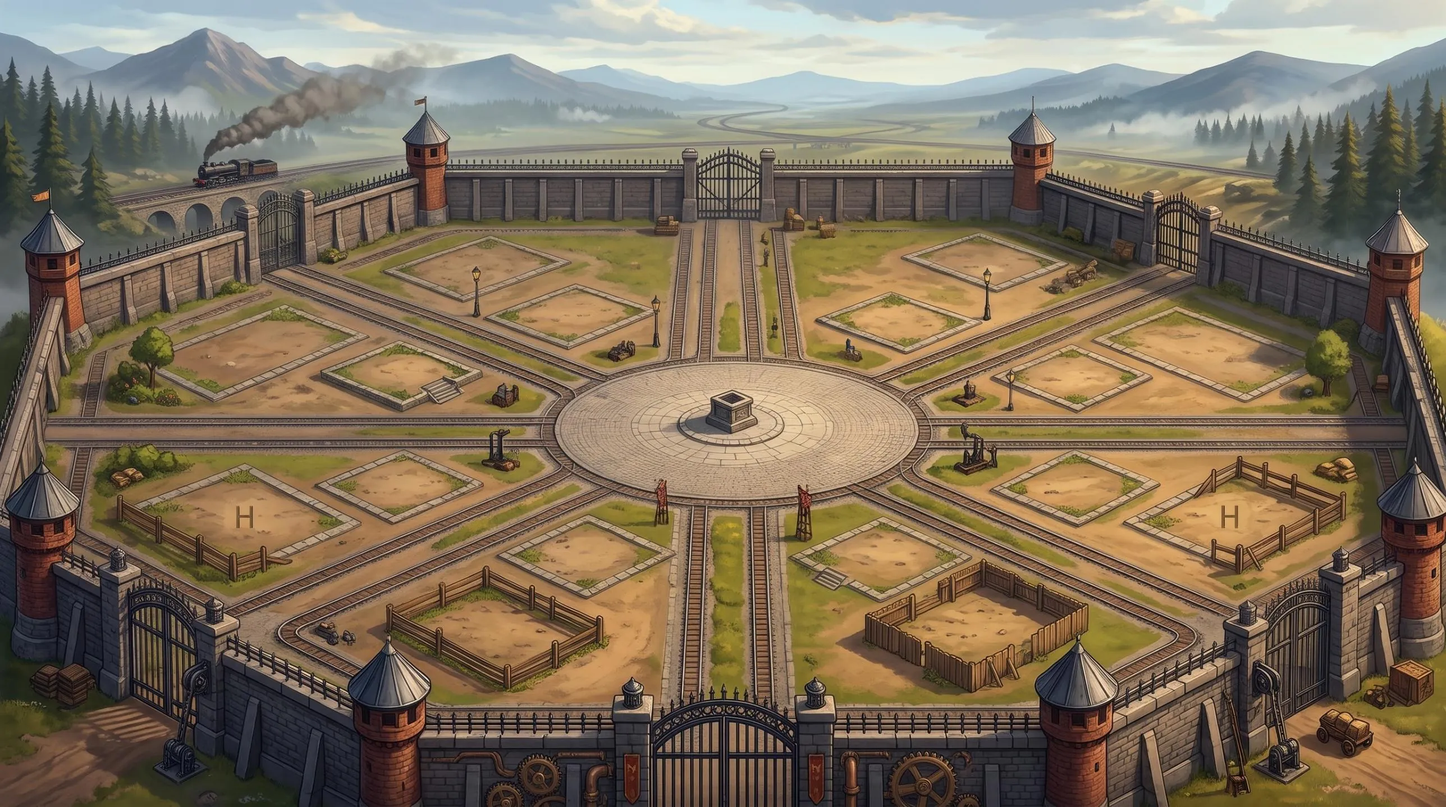
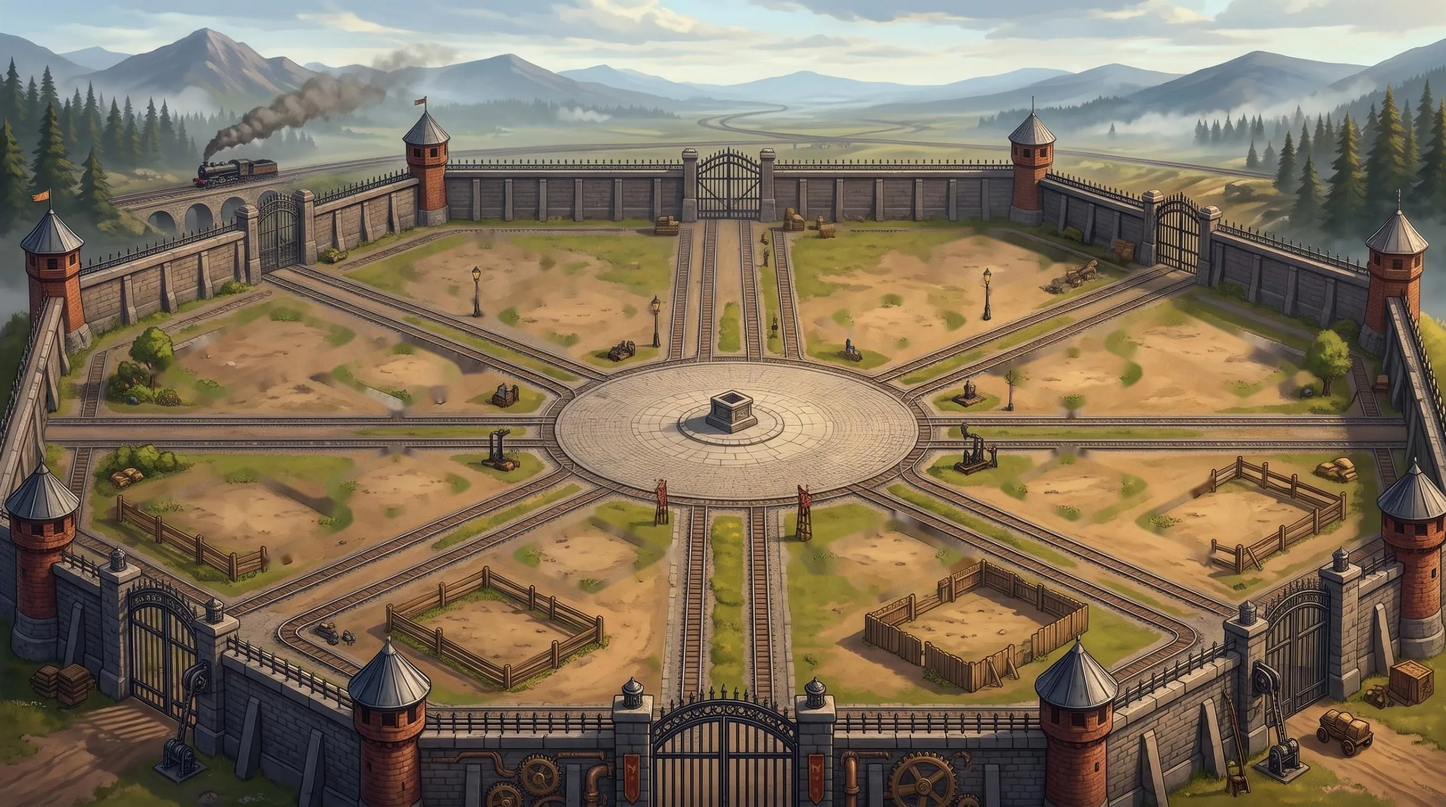
v20 em teste: chão sem as molduras dos lotes
Claude-Session: https://claude.ai/code/session_01PFf72XXzwAS1GMPb39itWp

diff --git a/teste/sw.js b/teste/sw.js
@@ -1,6 +1,6 @@
 const CACHE='reino-20-610ce56f';
 const ARQS=['./','index.html','jogo.610ce56f.js','manifest.webmanifest','icon-192.png','icon-512.png','icon-maskable-512.png','apple-touch-icon.png'];
-const ARTE=['arte/abertura.webp','arte/chao.webp','arte/p_academia1.webp','arte/p_academia2.webp','arte/p_academia3.webp','arte/p_alojamento1.webp','arte/p_alojamento2.webp','arte/p_alojamento3.webp','arte/p_arsenal1.webp','arte/p_arsenal2.webp','arte/p_arsenal3.webp','arte/p_banco1.webp','arte/p_banco2.webp','arte/p_banco3.webp','arte/p_central1.webp','arte/p_central2.webp','arte/p_central3.webp','arte/p_deposito1.webp','arte/p_deposito2.webp','arte/p_deposito3.webp','arte/p_fazenda1.webp','arte/p_fazenda2.webp','arte/p_fazenda3.webp','arte/p_forja1.webp','arte/p_forja2.webp','arte/p_forja3.webp','arte/p_madeireira1.webp','arte/p_madeireira2.webp','arte/p_madeireira3.webp','arte/p_oficina1.webp','arte/p_oficina2.webp','arte/p_oficina3.webp','arte/p_pedreira1.webp','arte/p_pedreira2.webp','arte/p_pedreira3.webp','arte/p_quartel1.webp','arte/p_quartel2.webp','arte/p_quartel3.webp','arte/p_sede1.webp','arte/p_sede2.webp','arte/p_sede3.webp','arte/p_siderurgica1.webp','arte/p_siderurgica2.webp','arte/p_siderurgica3.webp','arte/p_taverna1.webp','arte/p_taverna2.webp','arte/p_taverna3.webp'], CARTE='reino-arte-b638dd56';
+const ARTE=['arte/abertura.webp','arte/chao.webp','arte/p_academia1.webp','arte/p_academia2.webp','arte/p_academia3.webp','arte/p_alojamento1.webp','arte/p_alojamento2.webp','arte/p_alojamento3.webp','arte/p_arsenal1.webp','arte/p_arsenal2.webp','arte/p_arsenal3.webp','arte/p_banco1.webp','arte/p_banco2.webp','arte/p_banco3.webp','arte/p_central1.webp','arte/p_central2.webp','arte/p_central3.webp','arte/p_deposito1.webp','arte/p_deposito2.webp','arte/p_deposito3.webp','arte/p_fazenda1.webp','arte/p_fazenda2.webp','arte/p_fazenda3.webp','arte/p_forja1.webp','arte/p_forja2.webp','arte/p_forja3.webp','arte/p_madeireira1.webp','arte/p_madeireira2.webp','arte/p_madeireira3.webp','arte/p_oficina1.webp','arte/p_oficina2.webp','arte/p_oficina3.webp','arte/p_pedreira1.webp','arte/p_pedreira2.webp','arte/p_pedreira3.webp','arte/p_quartel1.webp','arte/p_quartel2.webp','arte/p_quartel3.webp','arte/p_sede1.webp','arte/p_sede2.webp','arte/p_sede3.webp','arte/p_siderurgica1.webp','arte/p_siderurgica2.webp','arte/p_siderurgica3.webp','arte/p_taverna1.webp','arte/p_taverna2.webp','arte/p_taverna3.webp'], CARTE='reino-arte-8f9b13ee';
 const guardaArte=()=>caches.open(CARTE).then(c=>Promise.all(ARTE.map(a=>c.match(a).then(m=>m||c.add(a).catch(()=>0)))));
 self.addEventListener('install',e=>{e.waitUntil(caches.open(CACHE).then(c=>c.addAll(ARQS)).then(guardaArte).then(()=>self.skipWaiting()));});
 self.addEventListener('activate',e=>{e.waitUntil(caches.keys().then(ks=>Promise.all(ks.filter(k=>k!==CACHE&&k!=='reino-fontes'&&k!==CARTE).map(k=>caches.delete(k)))).then(()=>self.clients.claim()));});
